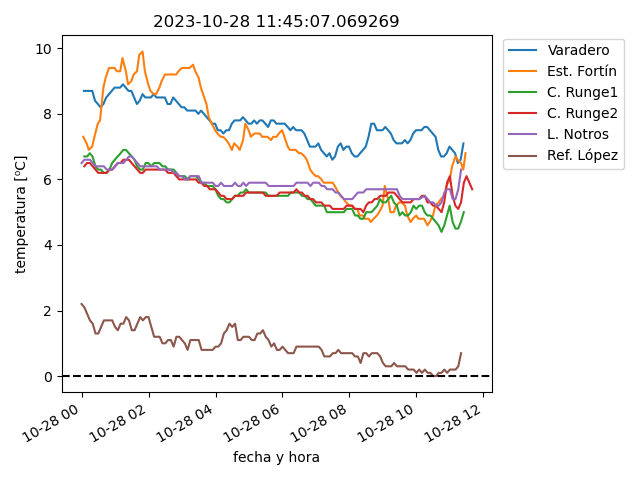
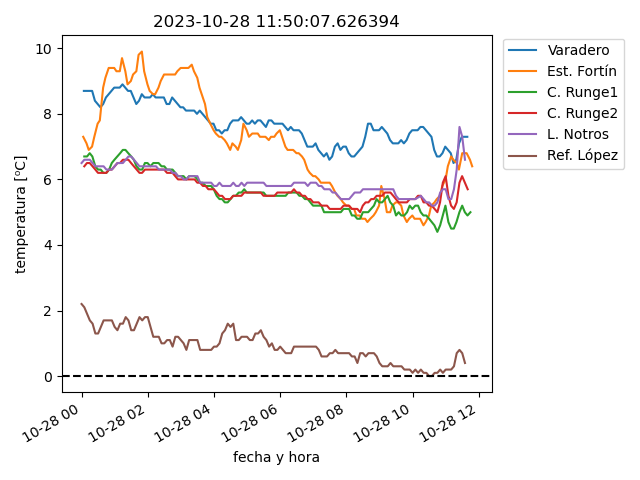
actualiza datos

diff --git a/estaciones/estacion1.html b/estaciones/estacion1.html
@@ -13,17 +13,17 @@
     </tr>
     <tr>
      <td class="stats_data">
-      2023-10-28 11:24:11
+      2023-10-28 11:39:11
      </td>
     </tr>
     <tr>
      <td class="stats_data">
-      TEMPERATURA / 5.8⁰C
+      TEMPERATURA / 6.0⁰C
      </td>
     </tr>
     <tr>
      <td class="stats_data">
-      91.5%
+      90.5%
      </td>
     </tr>
     <tr>
@@ -33,22 +33,22 @@
     </tr>
     <tr>
      <td class="stats_data">
-      29.3/33.5 km/hr WNW
+      27.2/30.7 km/hr NNW
      </td>
     </tr>
     <tr>
      <td class="stats_data">
-      14.48 / 3.05 mm
+      14.48 / 0.0 mm
      </td>
     </tr>
     <tr>
      <td class="stats_data">
-      9.0
+      1.0
      </td>
     </tr>
     <tr>
      <td class="stats_data">
-      1012.1 W/m²
+      198.7 W/m²
      </td>
     </tr>
    </tbody>

diff --git a/estaciones/estacion2.html b/estaciones/estacion2.html
@@ -13,17 +13,17 @@
     </tr>
     <tr>
      <td class="stats_data">
-      2023-10-28 11:27:59
+      2023-10-28 11:48:03
      </td>
     </tr>
     <tr>
      <td class="stats_data">
-      TEMPERATURA / 4.1⁰C
+      TEMPERATURA / 3.9⁰C
      </td>
     </tr>
     <tr>
      <td class="stats_data">
-      83.0%
+      83.5%
      </td>
     </tr>
     <tr>
@@ -33,22 +33,22 @@
     </tr>
     <tr>
      <td class="stats_data">
-      16.0/32.2 km/hr NW
+      12.7/23.3 km/hr NW
      </td>
     </tr>
     <tr>
      <td class="stats_data">
-      18.54 / 0.76 mm
+      19.3 / 1.52 mm
      </td>
     </tr>
     <tr>
      <td class="stats_data">
-      0.8
+      0.0
      </td>
     </tr>
     <tr>
      <td class="stats_data">
-      95.0 W/m²
+      54.0 W/m²
      </td>
     </tr>
    </tbody>

diff --git a/estaciones/estacion3.html b/estaciones/estacion3.html
@@ -13,7 +13,7 @@
     </tr>
     <tr>
      <td class="stats_data">
-      2023-10-28 11:24:53
+      2023-10-28 11:44:53
      </td>
     </tr>
     <tr>
@@ -28,27 +28,27 @@
     </tr>
     <tr>
      <td class="stats_data">
-      980.73hPa
+      980.83hPa
      </td>
     </tr>
     <tr>
      <td class="stats_data">
-      12.5/18.9 km/hr NW
+      13.8/19.0 km/hr NW
      </td>
     </tr>
     <tr>
      <td class="stats_data">
-      23.9 / 1.8 mm
+      23.9 / 0.0 mm
      </td>
     </tr>
     <tr>
      <td class="stats_data">
-      9.0
+      1.0
      </td>
     </tr>
     <tr>
      <td class="stats_data">
-      838.1 W/m²
+      151.3 W/m²
      </td>
     </tr>
    </tbody>

diff --git a/estaciones/estacion6.html b/estaciones/estacion6.html
@@ -13,32 +13,32 @@
     </tr>
     <tr>
      <td class="stats_data">
-      2023-10-28 11:20:00
+      2023-10-28 11:35:00
      </td>
     </tr>
     <tr>
      <td class="stats_data">
-      TEMPERATURA / 0.2⁰C
+      TEMPERATURA / -0.1⁰C
      </td>
     </tr>
     <tr>
      <td class="stats_data">
-      97.0%
+      96.0%
      </td>
     </tr>
     <tr>
      <td class="stats_data">
-      987.71hPa
+      987.3hPa
      </td>
     </tr>
     <tr>
      <td class="stats_data">
-      25.7/48.3 km/hr SSE
+      25.7/54.7 km/hr SSE
      </td>
     </tr>
     <tr>
      <td class="stats_data">
-      26.92 / 0.0 mm
+      27.18 / 0.25 mm
      </td>
     </tr>
     <tr>

diff --git a/estaciones/estacion5.html b/estaciones/estacion5.html
@@ -13,22 +13,22 @@
     </tr>
     <tr>
      <td class="stats_data">
-      2023-10-28 11:20:00
+      2023-10-28 11:35:00
      </td>
     </tr>
     <tr>
      <td class="stats_data">
-      TEMPERATURA / 5.1⁰C
+      TEMPERATURA / 5.0⁰C
      </td>
     </tr>
     <tr>
      <td class="stats_data">
-      92.0%
+      90.0%
      </td>
     </tr>
     <tr>
      <td class="stats_data">
-      989.77hPa
+      989.54hPa
      </td>
     </tr>
     <tr>
@@ -38,7 +38,7 @@
     </tr>
     <tr>
      <td class="stats_data">
-      26.16 / 1.52 mm
+      26.16 / 0.51 mm
      </td>
     </tr>
     <tr>
